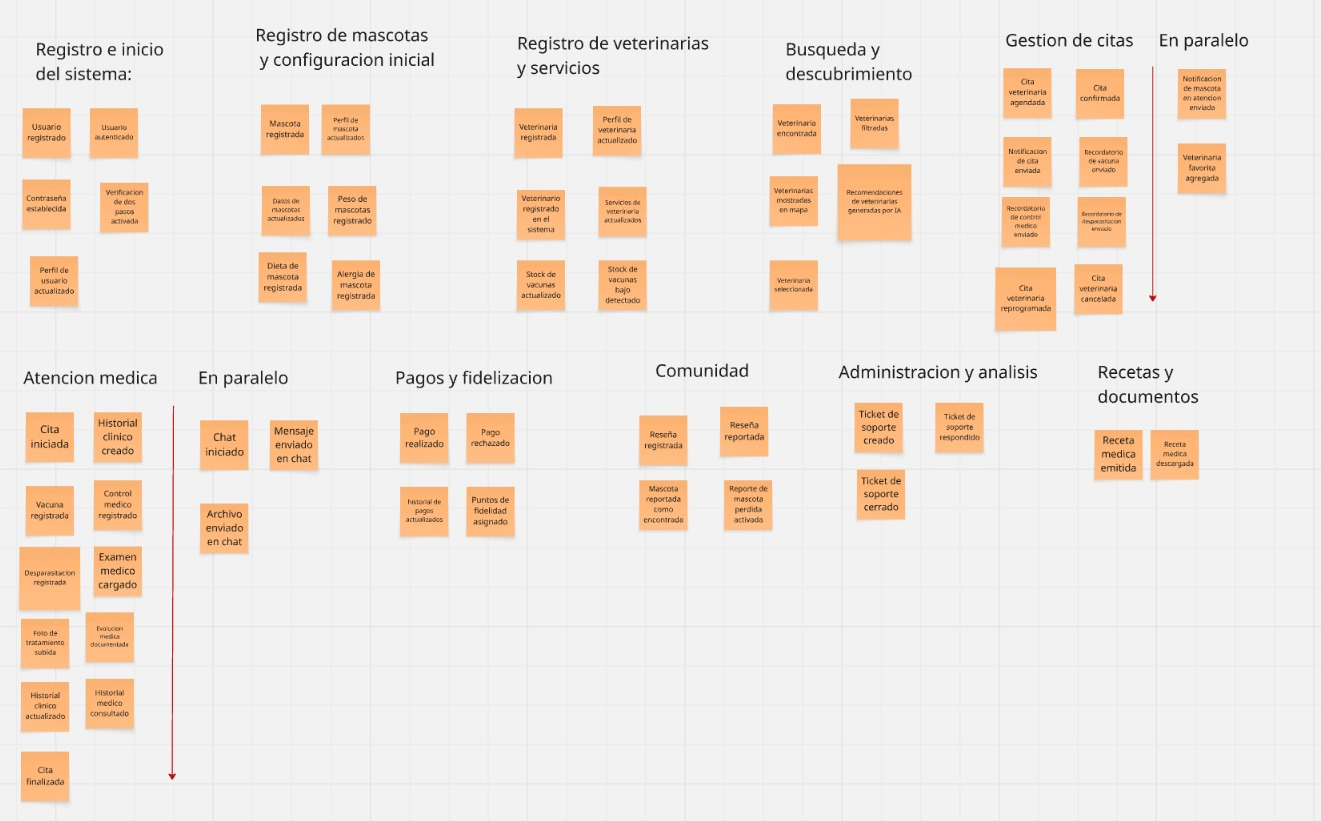
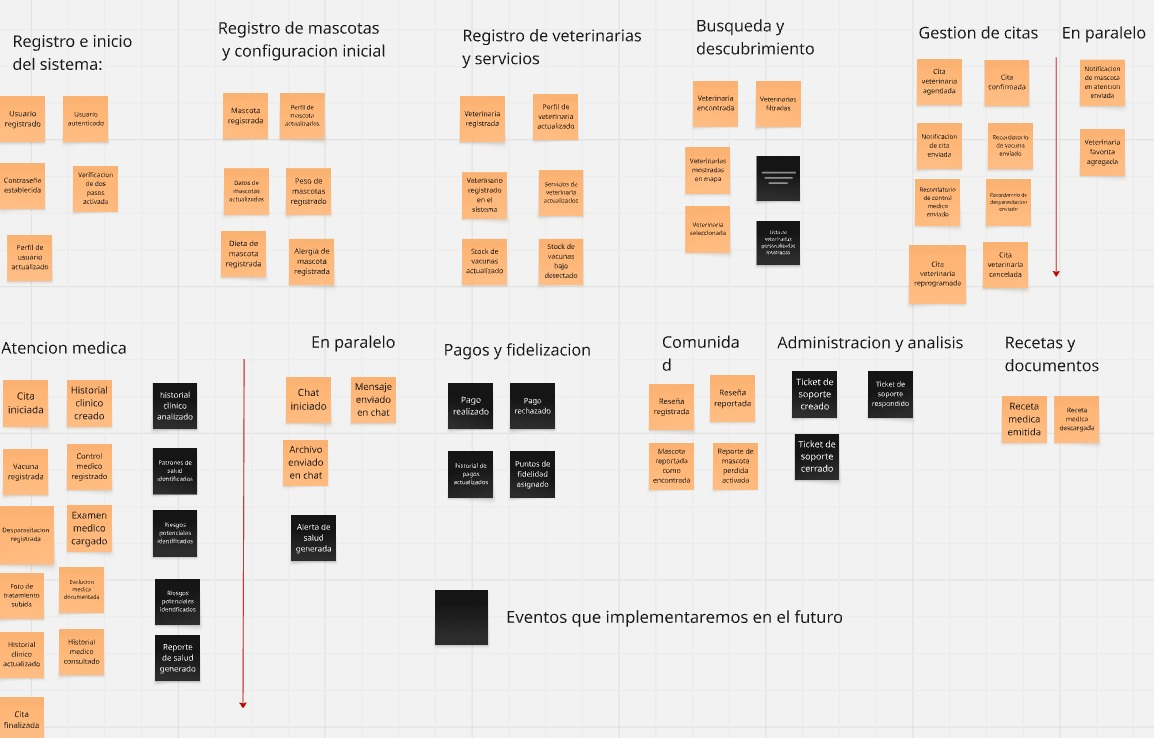
fix: update big picture event storming

diff --git a/README.md b/README.md
@@ -724,7 +724,7 @@ Los hallazgos obtenidos permitieron identificar una necesidad común en ambos se
 <img src="assets/Empathy-Map-Veterinario.png">
 
 ## 2.4. Big Picture Event Storming
--Para comenzar con el desarrollo de esta sección nos guiamos de la revista Event Storming, tomando como referencia el aritculo "Guía de pasos para llevar a cabo su evento Big Picture event Storming" de Felipe Bourgau(2022).<br><br>-  Preparar la habitación: Para la preparación del espacio de trabajo, usaremos la aplicación web Miro, ya que por limitaciones de tiempo y disponibilidad, no es posible realizar una reunión presencial. Esta herramienta simulará un entorno colaborativo virtual, donde podremos modelar el proceso de manera virtual y en tiempo real.<br><br>- Energizar a la audiencia: Se inició la sesión conversando sobre las actividades realizadas durante el día, con el objetivo de generar un ambiente de confianza en el grupo, para así lanzar nuestras ideas sin temor.<br><br>- Informar y presentar el plan: Se conversó acerca del proyecto Petcare, definimos claramente los objetivos del sistema. Asimismo, se explicaron los pasos de la reunión realizada en Miro, desde el análisis del sistema hasta la identificación de necesidades y funcionalidades importantes, comprendiendo como cada etapa ayuda a llegar a un diseño de solución final.<br><br>- Generación de Eventos de Dominio: En esta fase se comenzó a plasmar las ideas en el Miro, identificando y colocando los eventos de dominio, los cuales representan hechos que ocurren dentro del negocio, Adjuntamos la evidencia: <br> <br><img src="assets/EventosDeDominio.png"><br><br>- Clasificación de Eventos de Dominio: Se ordenaron los eventos colocados anteriormente en una línea de tiempo, desde lo que ocurre primero hasta lo que ocurre al final, discutiendo además los eventos paralelos que suceden.<br><br> <img src="assets/AgrupaciondeEventonDominio.png"><br><br>- Incorporación de actores y sistemas externos: En esta fase se identificaron los actores principales del sistema, como el dueño de mascotas, veterinarias y administradores, asi como los sistemas externos involucrados, como servicios de pago, notificaciones, mapas, inteligencia artificial y dispositivos IoT.<br><br> <img src="assets/EventosDeDominioConActoresSistemas.png">
+-Para comenzar con el desarrollo de esta sección nos guiamos de la revista Event Storming, tomando como referencia el aritculo "Guía de pasos para llevar a cabo su evento Big Picture event Storming" de Felipe Bourgau(2022).<br><br>-  Preparar la habitación: Para la preparación del espacio de trabajo, usaremos la aplicación web Miro, ya que por limitaciones de tiempo y disponibilidad, no es posible realizar una reunión presencial. Esta herramienta simulará un entorno colaborativo virtual, donde podremos modelar el proceso de manera virtual y en tiempo real.<br><br>- Energizar a la audiencia: Se inició la sesión conversando sobre las actividades realizadas durante el día, con el objetivo de generar un ambiente de confianza en el grupo, para así lanzar nuestras ideas sin temor.<br><br>- Informar y presentar el plan: Se conversó acerca del proyecto Petcare, definimos claramente los objetivos del sistema. Asimismo, se explicaron los pasos de la reunión realizada en Miro, desde el análisis del sistema hasta la identificación de necesidades y funcionalidades importantes, comprendiendo como cada etapa ayuda a llegar a un diseño de solución final.<br><br>- Generación de Eventos de Dominio: En esta fase se comenzó a plasmar las ideas en el Miro, identificando y colocando los eventos de dominio, los cuales representan hechos que ocurren dentro del negocio, Adjuntamos la evidencia: <br> <br><img src="assets/EventosDeDominio.png"><br><br>- Clasificación de Eventos de Dominio: Se ordenaron los eventos colocados anteriormente en una línea de tiempo, desde lo que ocurre primero hasta lo que ocurre al final, discutiendo además los eventos paralelos que suceden.<br><br>-Los bounded context de “pagos y fidelizacion”, “administracion de análisis” y los eventos que pertenecen a IA y IoT se tomará en cuenta en el futuro, primero implementaremos nuestro MVP que se enfocara en las funciones principales para que el sistema pueda funcionar y ser utilizado sin inconvenientes, resolviendo la problemática principal planteada al inicio y guiándonos de las entrevistas realizadas a nuestros dos segmentos, por ello aún no tomaremos en cuenta los bounded context mencionados.<br><br> <img src="assets/AgrupaciondeEventonDominio.pnG"><br><br>- Incorporación de actores y sistemas externos: En esta fase se identificaron los actores principales del sistema, como el dueño de mascotas, veterinarias y administradores, asi como los sistemas externos involucrados, como servicios de pago, notificaciones, mapas, inteligencia artificial y dispositivos IoT.<br><br> <img src="assets/EventosDeDominioConActoresSistemas.png">
 ## 2.5. Ubiquitous Language
 El Ubiquitous Language es un elemento fundamental dentro del enfoque Domain-Driven Design (DDD), el cual se basa en la creación de un lenguaje común que sea compartido por todos los involucrados en el proyecto. Su finalidad es reducir confusiones y garantizar que tanto el equipo de desarrollo como los stakeholders tengan una interpretación clara y uniforme de los conceptos relacionados al dominio del negocio.
 